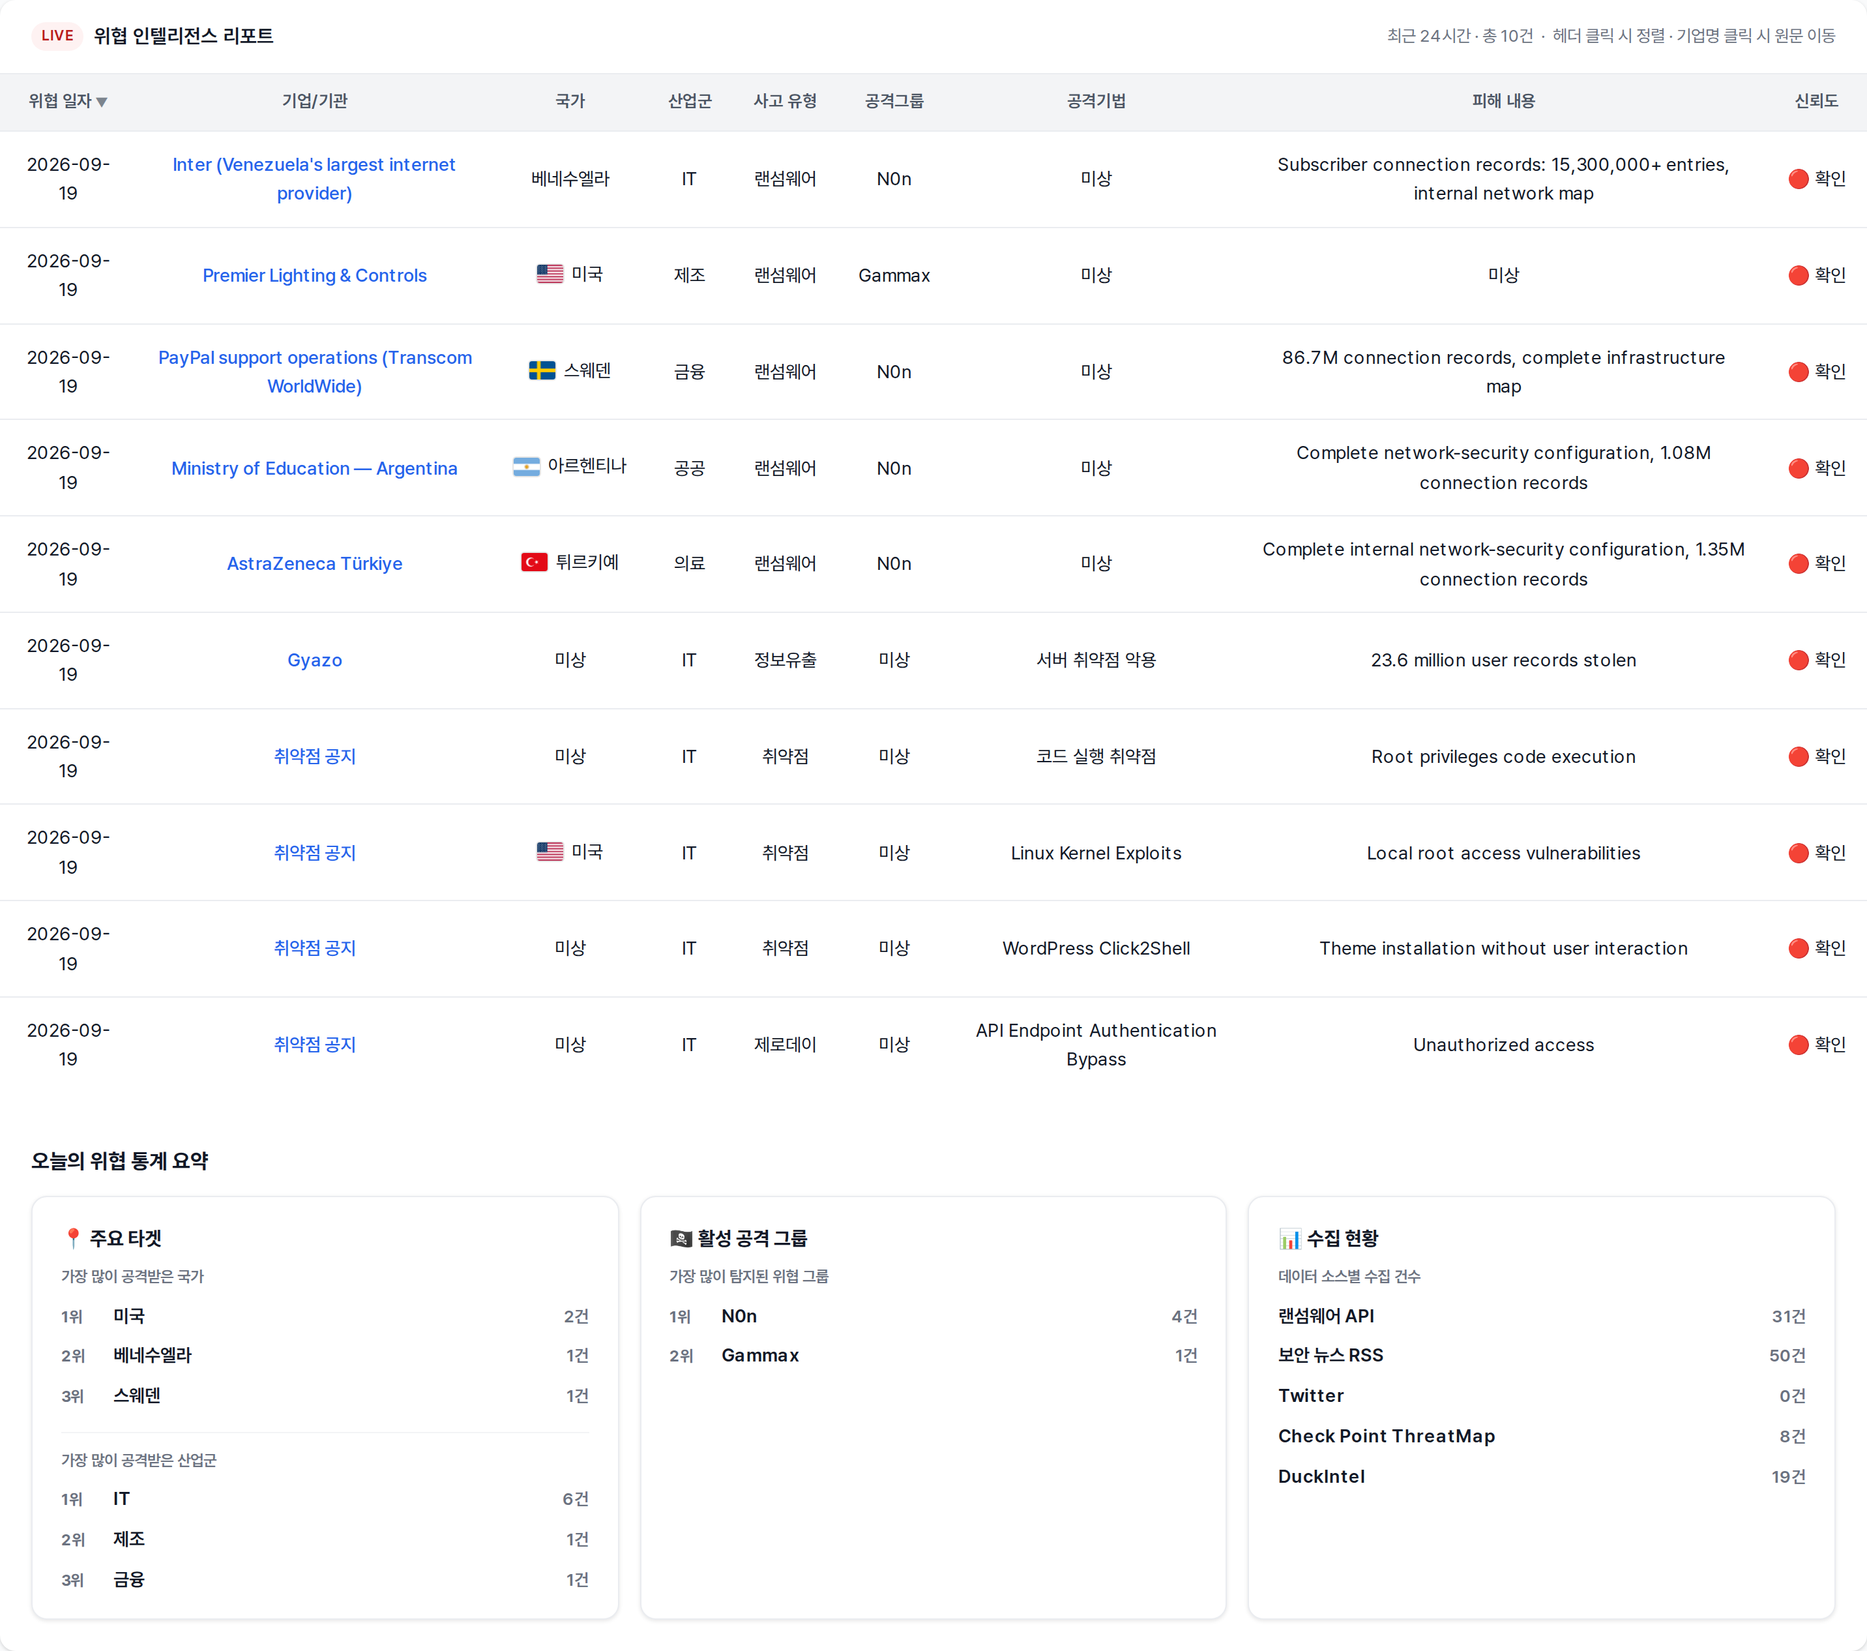
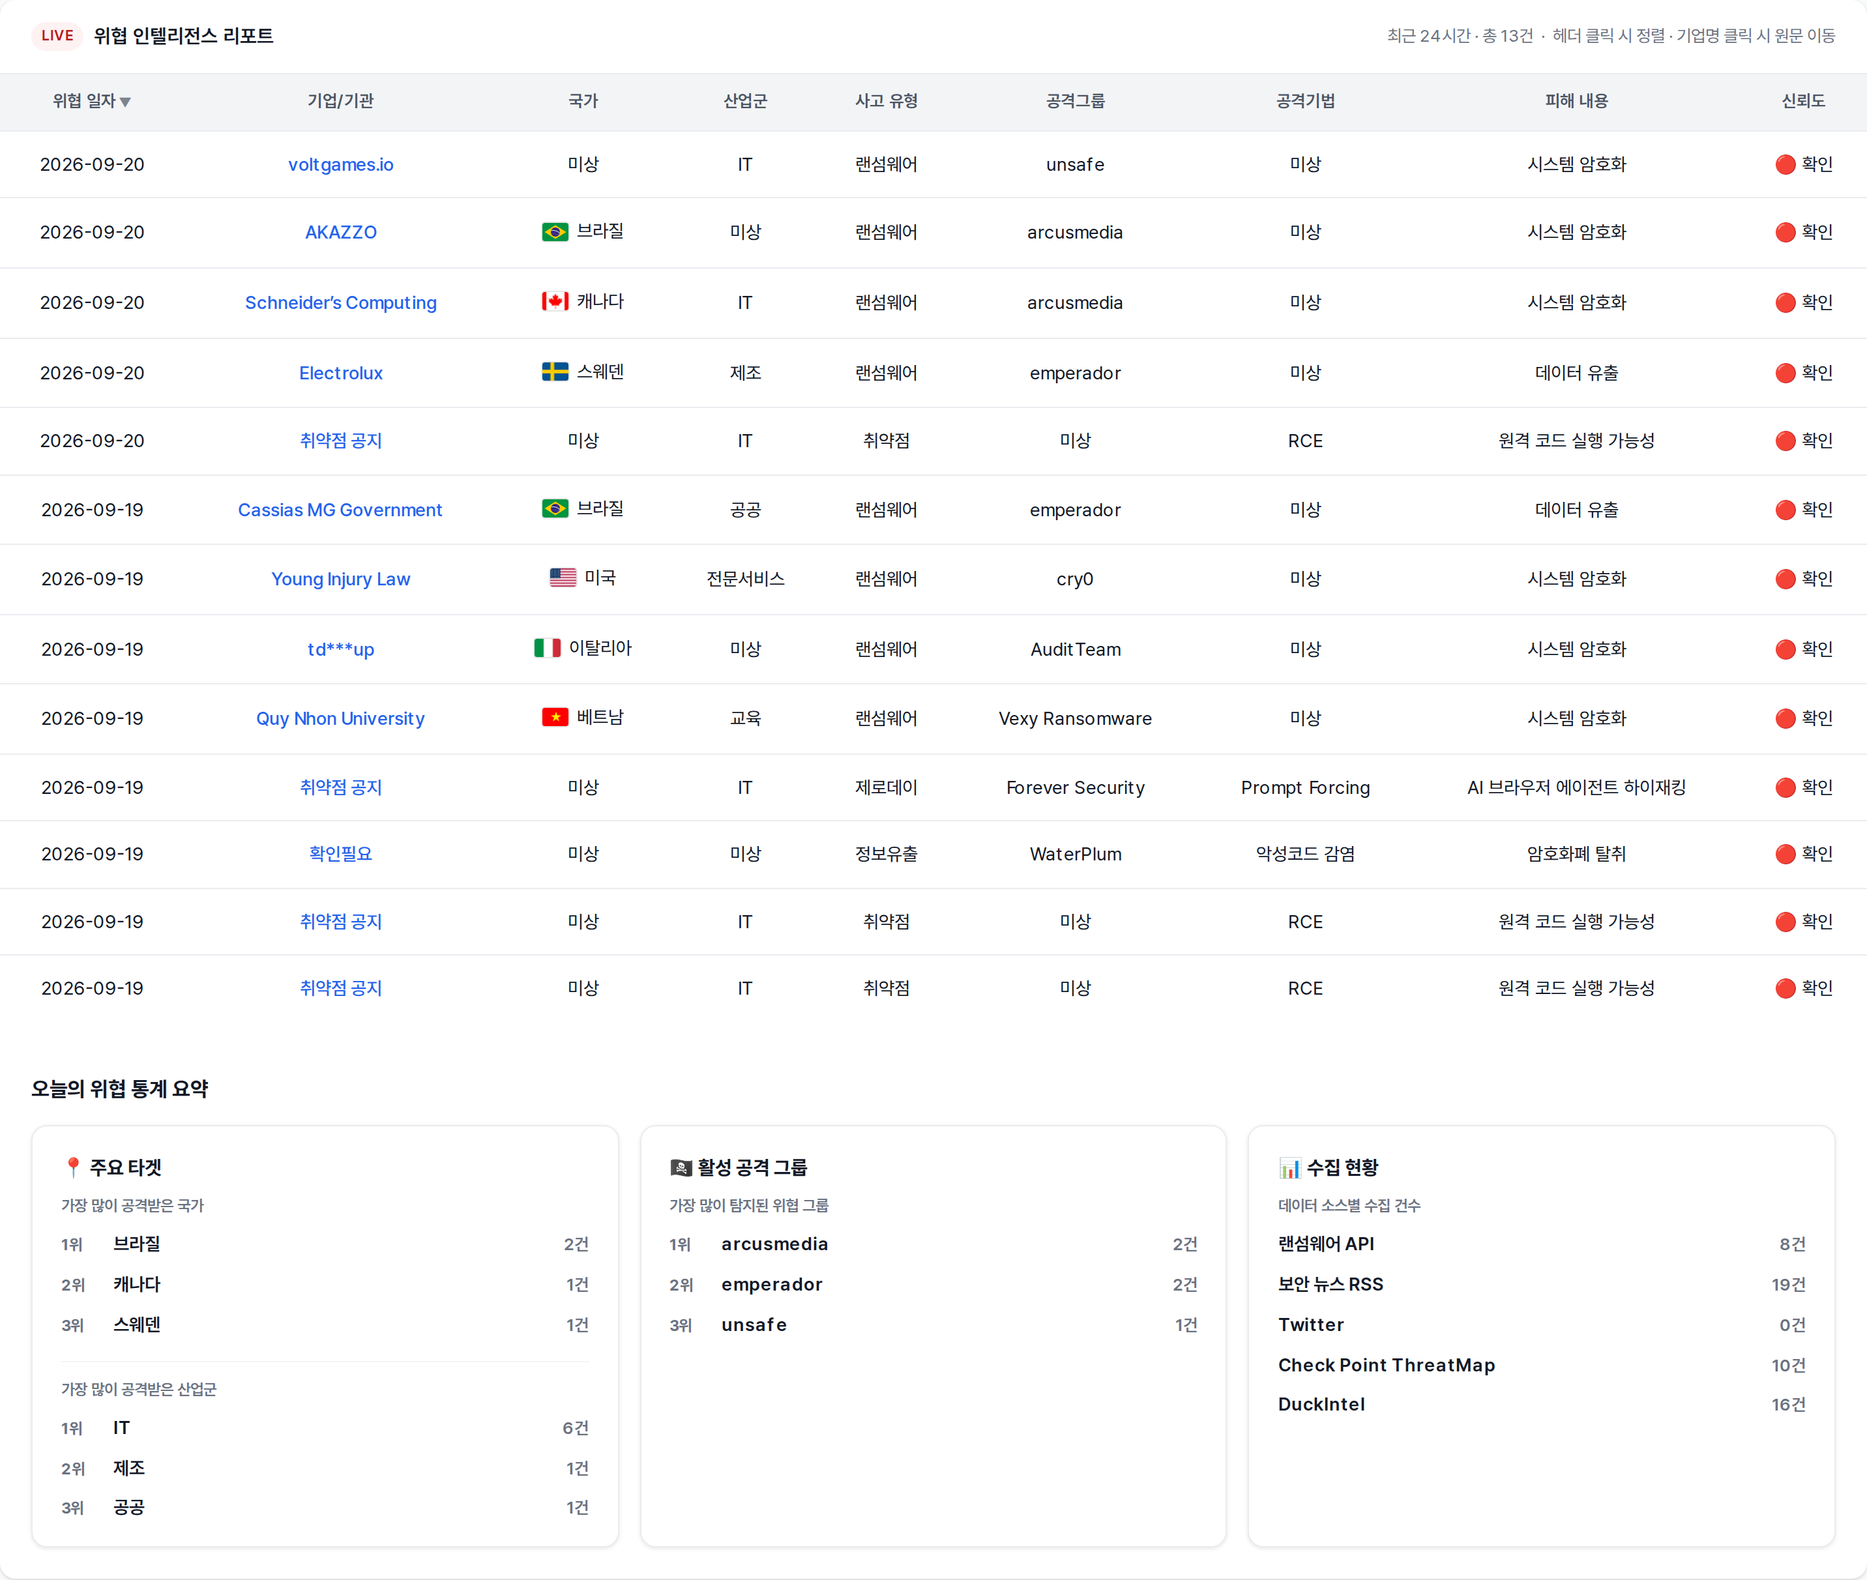
deploy: 9c533ad8fcaa3f846a31aadab046301a26f1192c

diff --git a/index.html b/index.html
@@ -3,7 +3,7 @@
 <head>
   <meta charset="UTF-8" />
   <meta name="viewport" content="width=device-width, initial-scale=1.0" />
-  <title>🚨 2026년 09월 19일 국내/해외 사이버 위협 현황</title>
+  <title>🚨 2026년 09월 20일 국내/해외 사이버 위협 현황</title>
   <link rel="preconnect" href="https://cdn.jsdelivr.net" />
   <link href="https://cdn.jsdelivr.net/gh/orioncactus/pretendard/dist/web/static/pretendard.css" rel="stylesheet" />
   <style>
@@ -253,7 +253,7 @@
 </head>
 <body>
   <div class="page-header">
-    <h1 class="page-title">🚨 2026년 09월 19일 국내/해외 사이버 위협 현황</h1>
+    <h1 class="page-title">🚨 2026년 09월 20일 국내/해외 사이버 위협 현황</h1>
   </div>
 
   <div class="dashboard">
@@ -261,22 +261,25 @@
     <div class="card-header">
       <span class="badge">LIVE</span>
       <span class="card-title">위협 인텔리전스 리포트</span>
-      <span class="card-count">최근 24시간 · 총 10건 &nbsp;·&nbsp; 헤더 클릭 시 정렬 · 기업명 클릭 시 원문 이동</span>
+      <span class="card-count">최근 24시간 · 총 13건 &nbsp;·&nbsp; 헤더 클릭 시 정렬 · 기업명 클릭 시 원문 이동</span>
     </div>
     <div class="table-wrap" style="overflow-x: auto; -webkit-overflow-scrolling: touch;">
       <table id="threat-table">
         <thead><tr><th onclick="sortTable(0)" data-col="0" class="sort-desc">위협 일자</th><th onclick="sortTable(1)" data-col="1">기업/기관</th><th onclick="sortTable(2)" data-col="2">국가</th><th onclick="sortTable(3)" data-col="3">산업군</th><th onclick="sortTable(4)" data-col="4">사고 유형</th><th onclick="sortTable(5)" data-col="5">공격그룹</th><th onclick="sortTable(6)" data-col="6">공격기법</th><th onclick="sortTable(7)" data-col="7">피해 내용</th><th onclick="sortTable(8)" data-col="8">신뢰도</th></tr></thead>
         <tbody>
-<tr><td>2026-09-19</td><td><a href="https://www.ransomware.live/id/SW50ZXIgKFZlbmV6dWVsYSdzIGxhcmdlc3QgaW50ZXJuZXQgcHJvdmlkZXIpQE4wbg==" target="_blank" rel="noopener noreferrer">Inter (Venezuela&#x27;s largest internet provider)</a></td><td class="country"><span class="country-cell">베네수엘라</span></td><td>IT</td><td>랜섬웨어</td><td>N0n</td><td>미상</td><td>Subscriber connection records: 15,300,000+ entries, internal network map</td><td>🔴 확인</td></tr>
-<tr><td>2026-09-19</td><td><a href="https://www.ransomware.live/id/UHJlbWllciBMaWdodGluZyAmIENvbnRyb2xzQEdhbW1heA==" target="_blank" rel="noopener noreferrer">Premier Lighting &amp; Controls</a></td><td class="country"><span class="country-cell"><img class="flag" src="https://flagcdn.com/w40/us.png" alt="미국" width="20" height="14" />미국</span></td><td>제조</td><td>랜섬웨어</td><td>Gammax</td><td>미상</td><td>미상</td><td>🔴 확인</td></tr>
-<tr><td>2026-09-19</td><td><a href="https://www.ransomware.live/id/UGF5UGFsIHN1cHBvcnQgb3BlcmF0aW9ucyAoVHJhbnNjb20gV29ybGRXaWRlKUBOMG4=" target="_blank" rel="noopener noreferrer">PayPal support operations (Transcom WorldWide)</a></td><td class="country"><span class="country-cell"><img class="flag" src="https://flagcdn.com/w40/se.png" alt="스웨덴" width="20" height="14" />스웨덴</span></td><td>금융</td><td>랜섬웨어</td><td>N0n</td><td>미상</td><td>86.7M connection records, complete infrastructure map</td><td>🔴 확인</td></tr>
-<tr><td>2026-09-19</td><td><a href="https://www.ransomware.live/id/TWluaXN0cnkgb2YgRWR1Y2F0aW9uIOKAlCBBcmdlbnRpbmFATjBu" target="_blank" rel="noopener noreferrer">Ministry of Education — Argentina</a></td><td class="country"><span class="country-cell"><img class="flag" src="https://flagcdn.com/w40/ar.png" alt="아르헨티나" width="20" height="14" />아르헨티나</span></td><td>공공</td><td>랜섬웨어</td><td>N0n</td><td>미상</td><td>Complete network-security configuration, 1.08M connection records</td><td>🔴 확인</td></tr>
-<tr><td>2026-09-19</td><td><a href="https://www.ransomware.live/id/QXN0cmFaZW5lY2EgVMO8cmtpeWVATjBu" target="_blank" rel="noopener noreferrer">AstraZeneca Türkiye</a></td><td class="country"><span class="country-cell"><img class="flag" src="https://flagcdn.com/w40/tr.png" alt="튀르키예" width="20" height="14" />튀르키예</span></td><td>의료</td><td>랜섬웨어</td><td>N0n</td><td>미상</td><td>Complete internal network-security configuration, 1.35M connection records</td><td>🔴 확인</td></tr>
-<tr><td>2026-09-19</td><td><a href="https://www.bleepingcomputer.com/news/security/gyazo-server-flaw-exploited-to-steal-236-million-user-records/" target="_blank" rel="noopener noreferrer">Gyazo</a></td><td class="country"><span class="country-cell">미상</span></td><td>IT</td><td>정보유출</td><td>미상</td><td>서버 취약점 악용</td><td>23.6 million user records stolen</td><td>🔴 확인</td></tr>
-<tr><td>2026-09-19</td><td><a href="https://www.bleepingcomputer.com/news/security/check-point-warns-critical-flaw-lets-hackers-execute-code-as-root/" target="_blank" rel="noopener noreferrer">취약점 공지</a></td><td class="country"><span class="country-cell">미상</span></td><td>IT</td><td>취약점</td><td>미상</td><td>코드 실행 취약점</td><td>Root privileges code execution</td><td>🔴 확인</td></tr>
-<tr><td>2026-09-19</td><td><a href="https://thehackernews.com/2026/09/public-exploits-released-for-four-linux.html" target="_blank" rel="noopener noreferrer">취약점 공지</a></td><td class="country"><span class="country-cell"><img class="flag" src="https://flagcdn.com/w40/us.png" alt="미국" width="20" height="14" />미국</span></td><td>IT</td><td>취약점</td><td>미상</td><td>Linux Kernel Exploits</td><td>Local root access vulnerabilities</td><td>🔴 확인</td></tr>
-<tr><td>2026-09-19</td><td><a href="https://thehackernews.com/2026/09/new-wordpress-click2shell-flaw-forces.html" target="_blank" rel="noopener noreferrer">취약점 공지</a></td><td class="country"><span class="country-cell">미상</span></td><td>IT</td><td>취약점</td><td>미상</td><td>WordPress Click2Shell</td><td>Theme installation without user interaction</td><td>🔴 확인</td></tr>
-<tr><td>2026-09-19</td><td><a href="https://www.darkreading.com/vulnerabilities-threats/cisco-zero-day-api-endpoint-authentication-issues" target="_blank" rel="noopener noreferrer">취약점 공지</a></td><td class="country"><span class="country-cell">미상</span></td><td>IT</td><td>제로데이</td><td>미상</td><td>API Endpoint Authentication Bypass</td><td>Unauthorized access</td><td>🔴 확인</td></tr>
+<tr><td>2026-09-20</td><td><a href="https://www.ransomware.live/id/dm9sdGdhbWVzLmlvQHVuc2FmZQ==" target="_blank" rel="noopener noreferrer">voltgames.io</a></td><td class="country"><span class="country-cell">미상</span></td><td>IT</td><td>랜섬웨어</td><td>unsafe</td><td>미상</td><td>시스템 암호화</td><td>🔴 확인</td></tr>
+<tr><td>2026-09-20</td><td><a href="https://www.ransomware.live/id/QUtBWlpPQGFyY3VzbWVkaWE=" target="_blank" rel="noopener noreferrer">AKAZZO</a></td><td class="country"><span class="country-cell"><img class="flag" src="https://flagcdn.com/w40/br.png" alt="브라질" width="20" height="14" />브라질</span></td><td>미상</td><td>랜섬웨어</td><td>arcusmedia</td><td>미상</td><td>시스템 암호화</td><td>🔴 확인</td></tr>
+<tr><td>2026-09-20</td><td><a href="https://www.ransomware.live/id/U2NobmVpZGVy4oCZcyBDb21wdXRpbmdAYXJjdXNtZWRpYQ==" target="_blank" rel="noopener noreferrer">Schneider’s Computing</a></td><td class="country"><span class="country-cell"><img class="flag" src="https://flagcdn.com/w40/ca.png" alt="캐나다" width="20" height="14" />캐나다</span></td><td>IT</td><td>랜섬웨어</td><td>arcusmedia</td><td>미상</td><td>시스템 암호화</td><td>🔴 확인</td></tr>
+<tr><td>2026-09-20</td><td><a href="https://www.ransomware.live/id/RWxlY3Ryb2x1eEBlbXBlcmFkb3I=" target="_blank" rel="noopener noreferrer">Electrolux</a></td><td class="country"><span class="country-cell"><img class="flag" src="https://flagcdn.com/w40/se.png" alt="스웨덴" width="20" height="14" />스웨덴</span></td><td>제조</td><td>랜섬웨어</td><td>emperador</td><td>미상</td><td>데이터 유출</td><td>🔴 확인</td></tr>
+<tr><td>2026-09-20</td><td><a href="https://www.dailysecu.com/news/articleView.html?idxno=208551" target="_blank" rel="noopener noreferrer">취약점 공지</a></td><td class="country"><span class="country-cell">미상</span></td><td>IT</td><td>취약점</td><td>미상</td><td>RCE</td><td>원격 코드 실행 가능성</td><td>🔴 확인</td></tr>
+<tr><td>2026-09-19</td><td><a href="https://www.ransomware.live/id/Q2Fzc2lhcyBNRyBHb3Zlcm5tZW50QGVtcGVyYWRvcg==" target="_blank" rel="noopener noreferrer">Cassias MG Government</a></td><td class="country"><span class="country-cell"><img class="flag" src="https://flagcdn.com/w40/br.png" alt="브라질" width="20" height="14" />브라질</span></td><td>공공</td><td>랜섬웨어</td><td>emperador</td><td>미상</td><td>데이터 유출</td><td>🔴 확인</td></tr>
+<tr><td>2026-09-19</td><td><a href="https://www.ransomware.live/id/WW91bmcgSW5qdXJ5IExhd0Bjcnkw" target="_blank" rel="noopener noreferrer">Young Injury Law</a></td><td class="country"><span class="country-cell"><img class="flag" src="https://flagcdn.com/w40/us.png" alt="미국" width="20" height="14" />미국</span></td><td>전문서비스</td><td>랜섬웨어</td><td>cry0</td><td>미상</td><td>시스템 암호화</td><td>🔴 확인</td></tr>
+<tr><td>2026-09-19</td><td><a href="https://www.ransomware.live/id/dGQqKip1cEBBdWRpdFRlYW0=" target="_blank" rel="noopener noreferrer">td***up</a></td><td class="country"><span class="country-cell"><img class="flag" src="https://flagcdn.com/w40/it.png" alt="이탈리아" width="20" height="14" />이탈리아</span></td><td>미상</td><td>랜섬웨어</td><td>AuditTeam</td><td>미상</td><td>시스템 암호화</td><td>🔴 확인</td></tr>
+<tr><td>2026-09-19</td><td><a href="https://www.ransomware.live/id/UXV5IE5ob24gVW5pdmVyc2l0eUBWZXh5IFJhbnNvbXdhcmU=" target="_blank" rel="noopener noreferrer">Quy Nhon University</a></td><td class="country"><span class="country-cell"><img class="flag" src="https://flagcdn.com/w40/vn.png" alt="베트남" width="20" height="14" />베트남</span></td><td>교육</td><td>랜섬웨어</td><td>Vexy Ransomware</td><td>미상</td><td>시스템 암호화</td><td>🔴 확인</td></tr>
+<tr><td>2026-09-19</td><td><a href="https://www.bleepingcomputer.com/news/security/bragjack-attacks-hijack-ai-browser-agents-through-malicious-extensions/" target="_blank" rel="noopener noreferrer">취약점 공지</a></td><td class="country"><span class="country-cell">미상</span></td><td>IT</td><td>제로데이</td><td>Forever Security</td><td>Prompt Forcing</td><td>AI 브라우저 에이전트 하이재킹</td><td>🔴 확인</td></tr>
+<tr><td>2026-09-19</td><td><a href="https://www.bleepingcomputer.com/news/security/north-korean-waterplum-hackers-infected-30-000-devices-worldwide/" target="_blank" rel="noopener noreferrer">확인필요</a></td><td class="country"><span class="country-cell">미상</span></td><td>미상</td><td>정보유출</td><td>WaterPlum</td><td>악성코드 감염</td><td>암호화폐 탈취</td><td>🔴 확인</td></tr>
+<tr><td>2026-09-19</td><td><a href="https://thehackernews.com/2026/09/solarwinds-patches-arm-hard-coded-key.html" target="_blank" rel="noopener noreferrer">취약점 공지</a></td><td class="country"><span class="country-cell">미상</span></td><td>IT</td><td>취약점</td><td>미상</td><td>RCE</td><td>원격 코드 실행 가능성</td><td>🔴 확인</td></tr>
+<tr><td>2026-09-19</td><td><a href="https://thehackernews.com/2026/09/critical-pre-auth-rce-in-orkes.html" target="_blank" rel="noopener noreferrer">취약점 공지</a></td><td class="country"><span class="country-cell">미상</span></td><td>IT</td><td>취약점</td><td>미상</td><td>RCE</td><td>원격 코드 실행 가능성</td><td>🔴 확인</td></tr>
         </tbody>
       </table>
     </div>
@@ -287,19 +290,19 @@
       <article class="stat-card">
         <h3 class="stat-title">📍 주요 타겟</h3>
         <p class="stat-subtitle">가장 많이 공격받은 국가</p>
-        <ol class="stat-list"><li><span class="stat-rank">1위</span><span class="stat-name">미국</span><span class="stat-count">2건</span></li><li><span class="stat-rank">2위</span><span class="stat-name">베네수엘라</span><span class="stat-count">1건</span></li><li><span class="stat-rank">3위</span><span class="stat-name">스웨덴</span><span class="stat-count">1건</span></li></ol>
+        <ol class="stat-list"><li><span class="stat-rank">1위</span><span class="stat-name">브라질</span><span class="stat-count">2건</span></li><li><span class="stat-rank">2위</span><span class="stat-name">캐나다</span><span class="stat-count">1건</span></li><li><span class="stat-rank">3위</span><span class="stat-name">스웨덴</span><span class="stat-count">1건</span></li></ol>
         <p class="stat-subtitle stat-subtitle-gap">가장 많이 공격받은 산업군</p>
-        <ol class="stat-list"><li><span class="stat-rank">1위</span><span class="stat-name">IT</span><span class="stat-count">6건</span></li><li><span class="stat-rank">2위</span><span class="stat-name">제조</span><span class="stat-count">1건</span></li><li><span class="stat-rank">3위</span><span class="stat-name">금융</span><span class="stat-count">1건</span></li></ol>
+        <ol class="stat-list"><li><span class="stat-rank">1위</span><span class="stat-name">IT</span><span class="stat-count">6건</span></li><li><span class="stat-rank">2위</span><span class="stat-name">제조</span><span class="stat-count">1건</span></li><li><span class="stat-rank">3위</span><span class="stat-name">공공</span><span class="stat-count">1건</span></li></ol>
       </article>
       <article class="stat-card">
         <h3 class="stat-title">🏴☠ 활성 공격 그룹</h3>
         <p class="stat-subtitle">가장 많이 탐지된 위협 그룹</p>
-        <ol class="stat-list"><li><span class="stat-rank">1위</span><span class="stat-name">N0n</span><span class="stat-count">4건</span></li><li><span class="stat-rank">2위</span><span class="stat-name">Gammax</span><span class="stat-count">1건</span></li></ol>
+        <ol class="stat-list"><li><span class="stat-rank">1위</span><span class="stat-name">arcusmedia</span><span class="stat-count">2건</span></li><li><span class="stat-rank">2위</span><span class="stat-name">emperador</span><span class="stat-count">2건</span></li><li><span class="stat-rank">3위</span><span class="stat-name">unsafe</span><span class="stat-count">1건</span></li></ol>
       </article>
       <article class="stat-card">
         <h3 class="stat-title">📊 수집 현황</h3>
         <p class="stat-subtitle">데이터 소스별 수집 건수</p>
-        <ul class="stat-list stat-sources"><li><span class="stat-name">랜섬웨어 API</span><span class="stat-count">31건</span></li><li><span class="stat-name">보안 뉴스 RSS</span><span class="stat-count">50건</span></li><li><span class="stat-name">Twitter</span><span class="stat-count">0건</span></li><li><span class="stat-name">Check Point ThreatMap</span><span class="stat-count">8건</span></li><li><span class="stat-name">DuckIntel</span><span class="stat-count">19건</span></li></ul>
+        <ul class="stat-list stat-sources"><li><span class="stat-name">랜섬웨어 API</span><span class="stat-count">8건</span></li><li><span class="stat-name">보안 뉴스 RSS</span><span class="stat-count">19건</span></li><li><span class="stat-name">Twitter</span><span class="stat-count">0건</span></li><li><span class="stat-name">Check Point ThreatMap</span><span class="stat-count">10건</span></li><li><span class="stat-name">DuckIntel</span><span class="stat-count">16건</span></li></ul>
       </article>
     </div>
   </section>
